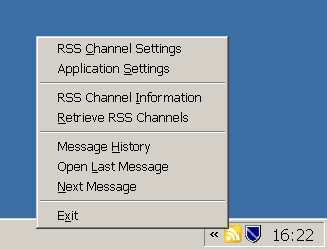
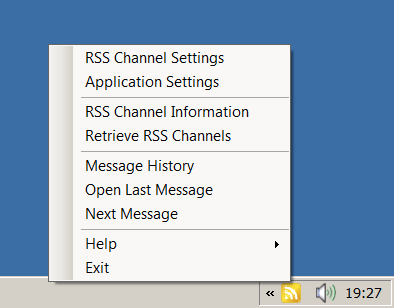
- minor updates in website, README.txt and help

diff --git a/web/download.html b/web/download.html
@@ -25,7 +25,7 @@
 
 <div id="header">
 <div class="skiplink"><a href="#textarea">jump to content</a></div>
-<h1><img src="img/rss.png" alt="BalloonRSS" id="logo" /></h1>
+<h1><img src="img/rss.gif" alt="BalloonRSS" id="logo" /></h1>
 <p><span>BalloonRSS</span> - A simple RSS aggregator using balloon tooltips</p>
 </div> <!-- end header -->  
 
@@ -74,7 +74,7 @@ while ($line = fgets($fh))
 
 <a href="http://sourceforge.net/project/platformdownload.php?group_id=206266">
 Download
-<img title="Download this file from SourceForge.net" alt="Download this file from SourceForge.net" src="img/down.png"/>
+<img title="Download this file from SourceForge.net" alt="Download this file from SourceForge.net" src="img/down.gif"/>
 </a></h3>
 <p>
 BalloonRSS - <?php echo $version_string; ?>

diff --git a/web/index.html b/web/index.html
@@ -24,7 +24,7 @@
 
 <div id="header">
 <div class="skiplink"><a href="#textarea">jump to content</a></div>
-<h1><img src="img/rss.png" alt="BalloonRSS" id="logo" /></h1>
+<h1><img src="img/rss.gif" alt="BalloonRSS" id="logo" /></h1>
 <p><span>BalloonRSS</span> - A simple RSS aggregator using balloon tooltips</p>
 </div> <!-- end header -->  
 
@@ -72,6 +72,8 @@ the Free Software Foundation; either version 3 of the license, or
 <li>message history</li>
 <li>support of HTTP authentication</li>
 <li>support for multi-user environments</li>
+<li>automatically check for program updates (if enabled)</li>
+<li>application help with context specific entries</li>
 <li>multi-language support: English, German, Portuguese</li>
 <li>...</li>
 </ul>

diff --git a/web/screenshots.html b/web/screenshots.html
@@ -27,7 +27,7 @@
 
 <div id="header">
 <div class="skiplink"><a href="#textarea">jump to content</a></div>
-<h1><img src="img/rss.png" alt="BalloonRSS" id="logo" /></h1>
+<h1><img src="img/rss.gif" alt="BalloonRSS" id="logo" /></h1>
 <p><span>BalloonRSS</span> - A simple RSS aggregator using balloon tooltips</p>
 </div> <!-- end header -->  
 
@@ -52,7 +52,7 @@
 </div>
 
 <div class="gallery">
-<img src="screenshots/balloonRss_2.png" width="327" height="249" alt="Screenshot of BalloonRSS" />
+<img src="screenshots/balloonRss_2.png" width="394" height="308" alt="Screenshot of BalloonRSS" />
 <p>Screenshot: Main menu of application.</p>
 </div>
 

diff --git a/help/intro.html b/help/intro.html
@@ -35,6 +35,7 @@ it under the terms of the GNU General Public License (GPL) as published by the F
 <li>message history</li>
 <li>support of HTTP authentication</li>
 <li>support for multi-user environments</li>
+<li>automatically check for program updates (if enabled)</li>
 <li>multi-language support: English, German, Portuguese</li>
 <li>...</li>
 </ul>

diff --git a/web/releasenotes.html b/web/releasenotes.html
@@ -25,7 +25,7 @@
 
 <div id="header">
 <div class="skiplink"><a href="#textarea">jump to content</a></div>
-<h1><img src="img/rss.png" alt="BalloonRSS" id="logo" /></h1>
+<h1><img src="img/rss.gif" alt="BalloonRSS" id="logo" /></h1>
 <p><span>BalloonRSS</span> - A simple RSS aggregator using balloon tooltips</p>
 </div> <!-- end header -->  
 

diff --git a/web/support.html b/web/support.html
@@ -27,7 +27,7 @@
 
 <div id="header">
 <div class="skiplink"><a href="#textarea">jump to content</a></div>
-<h1><img src="img/rss.png" alt="BalloonRSS" id="logo" /></h1>
+<h1><img src="img/rss.gif" alt="BalloonRSS" id="logo" /></h1>
 <p><span>BalloonRSS</span> - A simple RSS aggregator using balloon tooltips</p>
 </div> <!-- end header -->  
 

diff --git a/web/usage.html b/web/usage.html
@@ -26,7 +26,7 @@
 
 <div id="header">
 <div class="skiplink"><a href="#textarea">jump to content</a></div>
-<h1><img src="img/rss.png" alt="BalloonRSS" id="logo" /></h1>
+<h1><img src="img/rss.gif" alt="BalloonRSS" id="logo" /></h1>
 <p><span>BalloonRSS</span> - A simple RSS aggregator using balloon tooltips</p>
 </div> <!-- end header -->  
 

diff --git a/web/screen.css b/web/screen.css
@@ -239,7 +239,7 @@ a:active {
 		margin-right: 10px; 
 	}
 	#footer .update {
-		padding-top: 10px;
+		padding-top: 9px;
 	}
 
 /* ==================================
